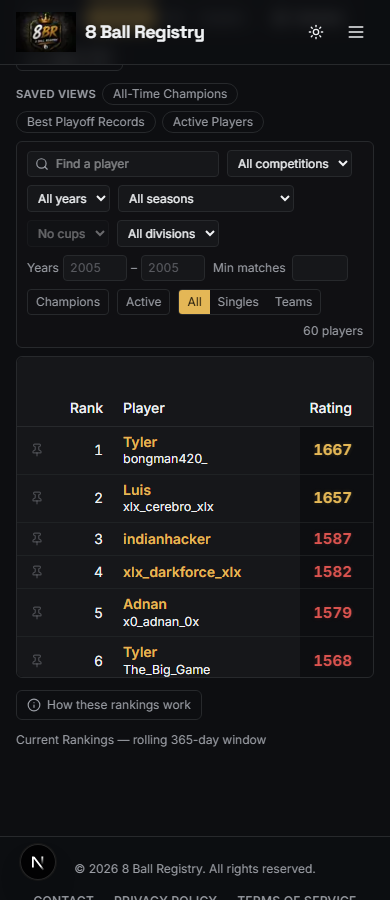
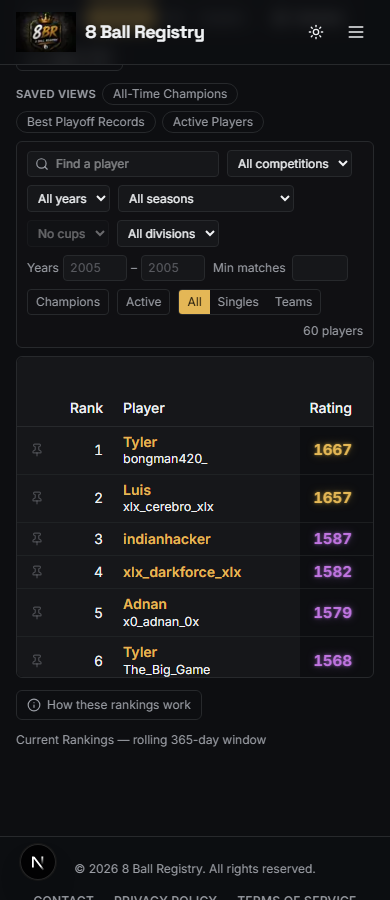
Rankings: revised tier bands, and make the glow actually neon
Bands are now gold, purple, blue, green, red, grey descending: 1600+
gold, 1500–1599 purple, 1400–1499 blue, 1300–1399 green, 1200–1299 red,
below 1200 grey. Red moves from the second band to the fifth. The
superseded 1500–1599 red mapping is asserted as ABSENT rather than merely
replaced — anyone reading a red rating as "elite" is reading the old
scheme, and that is worth a test of its own.

The previous glow was a single faint shadow and read as muted. Neon needs
two layers: a tight 3–5px core that makes the colour look lit from inside
and a 10–16px halo that spreads it into the row. It is the gap between
the radii the eye reads as neon, not the total amount of light.

Each tier now carries two tokens. The base is the colour of the glyph and
stays calm enough to read at 15px; the halo is brighter and more
saturated than the text could safely be, because a legible neon sign is
bright around the letters, not in them. Gold keeps the site gold as its
base so a top rating still matches the gold used everywhere else.

Grey is a restrained silver with a real glow rather than a dimmed
element — a bottom-band rating is a rating, not a disabled control.

The light theme keeps the same colours and the same animation but applies
the halo at roughly half strength, because a bright glow on a near-white
ground reads as a smudge instead of as light.

Still only text-shadow is animated, and the resting state carries the
[…]

Changed region(s): [[0.8, 0.5911, 0.9231, 0.7467], [0.8, 0.4667, 0.8923, 0.56]]

diff --git a/src/app/(frontend)/globals.css b/src/app/(frontend)/globals.css
@@ -94,15 +94,31 @@
   --streak-ice: oklch(0.85 0.08 230);   /* the snowflake icon — pale blue */
 
   /* ── Rating tiers (the primary Rating value in the Rankings table only).
-     Bands, high to low: 1600+ gold · 1500–1599 red · 1400–1499 purple ·
-     1300–1399 blue · 1200–1299 green · below 1200 grey.
-     Gold is the site gold, not a second yellow sitting next to it. */
+     Bands, high to low: 1600+ gold · 1500–1599 purple · 1400–1499 blue ·
+     1300–1399 green · 1200–1299 red · below 1200 grey.
+
+     Two tokens per tier, and the pairing is the whole effect. The BASE is the
+     colour of the glyph and has to stay readable at 15px on a near-black ground,
+     so it is the calmer of the two. The GLOW is deliberately brighter and more
+     saturated than anything the text itself could safely be — neon works because
+     the halo out-runs the letterform, not because the letters are shouting.
+     Colouring the text the glow colour instead would be luminous and unreadable.
+
+     Gold takes the site gold as its base so a top rating still reads as the same
+     gold used everywhere else, with a warmer, brighter halo around it. */
   --tier-gold: var(--gold);
-  --tier-red: oklch(0.62 0.17 25);
-  --tier-purple: oklch(0.62 0.16 305);
-  --tier-blue: oklch(0.66 0.11 255);
-  --tier-green: oklch(0.68 0.13 140);
-  --tier-grey: oklch(0.72 0.006 100);
+  --tier-gold-glow: oklch(0.88 0.16 88);
+  --tier-purple: oklch(0.68 0.17 315);
+  --tier-purple-glow: oklch(0.78 0.21 310);
+  --tier-blue: oklch(0.65 0.13 255);
+  --tier-blue-glow: oklch(0.76 0.17 250);
+  --tier-green: oklch(0.66 0.14 145);
+  --tier-green-glow: oklch(0.85 0.21 148);
+  --tier-red: oklch(0.62 0.18 22);
+  --tier-red-glow: oklch(0.7 0.22 22);
+  /* Grey is a restrained SILVER, not a disabled state: it still glows, just coolly. */
+  --tier-grey: oklch(0.73 0.008 250);
+  --tier-grey-glow: oklch(0.88 0.012 250);
 
   /* Clickable player names (e.g. the group crosstable). */
   --player-name: oklch(0.8 0.125 84);
@@ -184,14 +200,21 @@
   --streak-fire: oklch(0.58 0.19 42);
   --streak-ice: oklch(0.6 0.1 230);
 
-  /* Darkened to hold contrast on a near-white ground. The bands keep their identity;
-     only their lightness moves. */
+  /* Darkened bases to hold contrast on a near-white ground. The halos stay saturated but
+     are applied at lower alpha in the light theme (see .rating-primary), because a bright
+     glow on white reads as a smudge rather than as neon. The tier identities do not move. */
   --tier-gold: var(--gold);
-  --tier-red: oklch(0.52 0.19 25);
-  --tier-purple: oklch(0.5 0.18 305);
-  --tier-blue: oklch(0.52 0.13 255);
-  --tier-green: oklch(0.52 0.14 140);
-  --tier-grey: oklch(0.55 0.006 100);
+  --tier-gold-glow: oklch(0.72 0.15 82);
+  --tier-purple: oklch(0.5 0.2 310);
+  --tier-purple-glow: oklch(0.6 0.22 308);
+  --tier-blue: oklch(0.5 0.16 253);
+  --tier-blue-glow: oklch(0.58 0.18 250);
+  --tier-green: oklch(0.5 0.15 145);
+  --tier-green-glow: oklch(0.6 0.18 147);
+  --tier-red: oklch(0.52 0.2 22);
+  --tier-red-glow: oklch(0.6 0.22 22);
+  --tier-grey: oklch(0.52 0.008 250);
+  --tier-grey-glow: oklch(0.62 0.012 250);
 
   --player-name: oklch(0.55 0.1 74);
 
@@ -816,19 +839,25 @@
    to change the row's height. Nothing here touches position, scale or layout, so
    a row containing a Gold rating is exactly as tall as one containing a Grey.
 
+   NEON: two layers, not one. A tight 3–4px core sits almost on the glyph and does
+   the work of making the colour look lit from inside; a wider 10–16px halo spreads
+   the light into the row. One layer alone reads as a soft drop shadow — it is the
+   gap between the two radii that the eye reads as neon.
+
    The glow is the ONLY animated property. It breathes on a three-second cycle
    through `text-shadow` alone; the colour, the size and the opacity of the text
    all stay put, because a number that pulses in and out of legibility is worse
-   than one that never moved.
+   than one that never moved. The base colour is never animated either, so the
+   digits stay equally readable at every point in the cycle.
 
-   The non-animated state already carries a static glow, so the global
+   The non-animated state already carries the full neon glow, so the global
    prefers-reduced-motion rule further down — which stops the animation — leaves a
-   still, subtle version rather than nothing at all. Reduced motion is not a
-   reason to lose the tier.
+   still, clearly-lit version rather than a bare number. Reduced motion costs the
+   movement, never the tier.
 
    Scope: the primary Rating cell in a Rankings row and nowhere else. Peak rating,
-   the expanded panel, comparison, profiles, charts and the homepage all show
-   ratings and none of them take this treatment.
+   the expanded panel, comparison, profiles, charts, Creator and the homepage all
+   show ratings and none of them take this treatment.
 --------------------------------------------------------------------------- */
 .rating-primary {
   font-weight: 700;
@@ -838,18 +867,50 @@
   /* Keeps the taller glyphs on the row's own baseline rather than nudging it. */
   vertical-align: baseline;
   color: var(--tier-color);
-  text-shadow: 0 0 6px color-mix(in oklch, var(--tier-color) 30%, transparent);
+  text-shadow:
+    0 0 4px color-mix(in oklch, var(--tier-glow) 62%, transparent),
+    0 0 12px color-mix(in oklch, var(--tier-glow) 42%, transparent);
   animation: rating-breathe 3s ease-in-out infinite;
 }
 
-.rating-primary--gold   { --tier-color: var(--tier-gold); }
-.rating-primary--red    { --tier-color: var(--tier-red); }
-.rating-primary--purple { --tier-color: var(--tier-purple); }
-.rating-primary--blue   { --tier-color: var(--tier-blue); }
-.rating-primary--green  { --tier-color: var(--tier-green); }
-.rating-primary--grey   { --tier-color: var(--tier-grey); }
+.rating-primary--gold   { --tier-color: var(--tier-gold);   --tier-glow: var(--tier-gold-glow); }
+.rating-primary--purple { --tier-color: var(--tier-purple); --tier-glow: var(--tier-purple-glow); }
+.rating-primary--blue   { --tier-color: var(--tier-blue);   --tier-glow: var(--tier-blue-glow); }
+.rating-primary--green  { --tier-color: var(--tier-green);  --tier-glow: var(--tier-green-glow); }
+.rating-primary--red    { --tier-color: var(--tier-red);    --tier-glow: var(--tier-red-glow); }
+.rating-primary--grey   { --tier-color: var(--tier-grey);   --tier-glow: var(--tier-grey-glow); }
 
 @keyframes rating-breathe {
-  0%, 100% { text-shadow: 0 0 4px color-mix(in oklch, var(--tier-color) 22%, transparent); }
-  50%      { text-shadow: 0 0 9px color-mix(in oklch, var(--tier-color) 46%, transparent); }
+  0%, 100% {
+    text-shadow:
+      0 0 3px color-mix(in oklch, var(--tier-glow) 52%, transparent),
+      0 0 10px color-mix(in oklch, var(--tier-glow) 30%, transparent);
+  }
+  50% {
+    text-shadow:
+      0 0 5px color-mix(in oklch, var(--tier-glow) 78%, transparent),
+      0 0 16px color-mix(in oklch, var(--tier-glow) 58%, transparent);
+  }
+}
+
+/* On a near-white ground the same halo reads as a smudge, so it is pulled back.
+   The tier colour and the animation are unchanged; only the light's strength moves. */
+.light .rating-primary {
+  text-shadow:
+    0 0 3px color-mix(in oklch, var(--tier-glow) 34%, transparent),
+    0 0 9px color-mix(in oklch, var(--tier-glow) 20%, transparent);
+  animation-name: rating-breathe-light;
+}
+
+@keyframes rating-breathe-light {
+  0%, 100% {
+    text-shadow:
+      0 0 2px color-mix(in oklch, var(--tier-glow) 28%, transparent),
+      0 0 8px color-mix(in oklch, var(--tier-glow) 16%, transparent);
+  }
+  50% {
+    text-shadow:
+      0 0 4px color-mix(in oklch, var(--tier-glow) 46%, transparent),
+      0 0 13px color-mix(in oklch, var(--tier-glow) 30%, transparent);
+  }
 }

diff --git a/src/lib/stats/rating-tier.ts b/src/lib/stats/rating-tier.ts
@@ -15,13 +15,19 @@
 
 export type RatingTier = 'gold' | 'red' | 'purple' | 'blue' | 'green' | 'grey'
 
-/** Ordered high to low. The first band whose floor the rating reaches is the one it belongs to. */
+/**
+ * Ordered high to low. The first band whose floor the rating reaches is the one it belongs to.
+ *
+ * The colour order is the owner's, not a spectrum: gold, purple, blue, green, red, grey descending.
+ * Red sits LOW rather than high — an earlier revision had 1500–1599 red, which is gone. Anyone
+ * reading a red rating as "elite" is reading the previous scheme.
+ */
 const BANDS: { tier: RatingTier; floor: number; label: string }[] = [
   { tier: 'gold', floor: 1600, label: 'Gold' },
-  { tier: 'red', floor: 1500, label: 'Red' },
-  { tier: 'purple', floor: 1400, label: 'Purple' },
-  { tier: 'blue', floor: 1300, label: 'Blue' },
-  { tier: 'green', floor: 1200, label: 'Green' },
+  { tier: 'purple', floor: 1500, label: 'Purple' },
+  { tier: 'blue', floor: 1400, label: 'Blue' },
+  { tier: 'green', floor: 1300, label: 'Green' },
+  { tier: 'red', floor: 1200, label: 'Red' },
   { tier: 'grey', floor: Number.NEGATIVE_INFINITY, label: 'Grey' },
 ]
 
